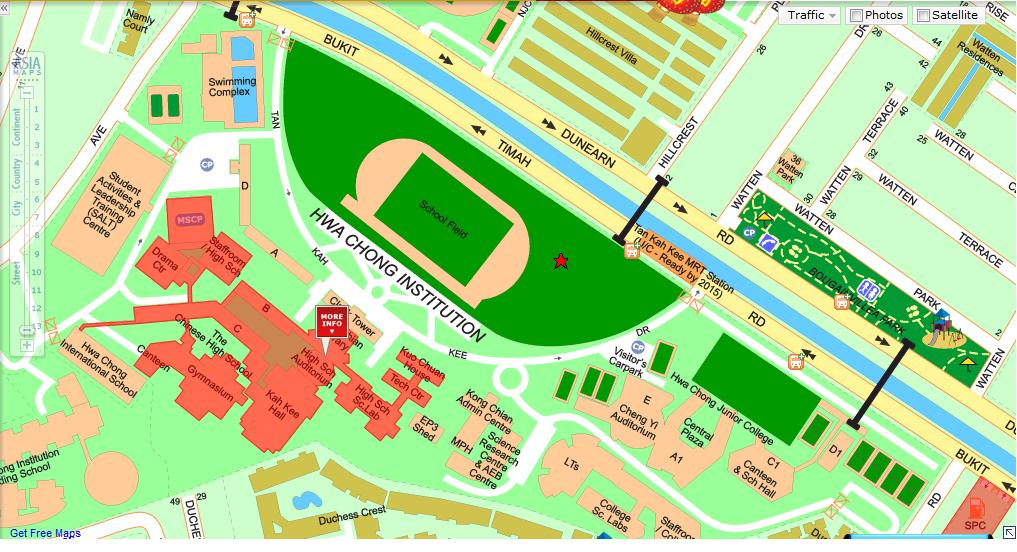
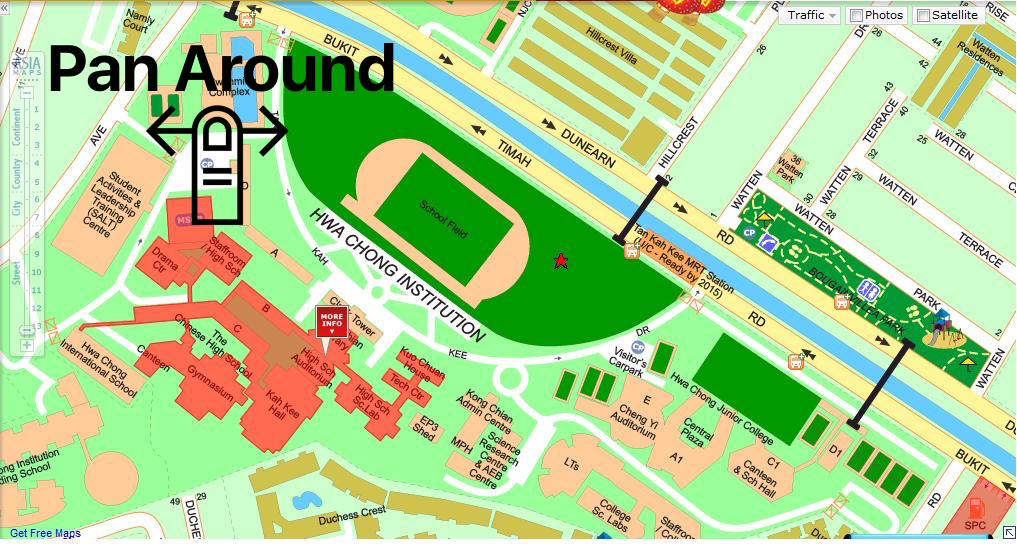
misc build files....

Changed region(s): [[0.0305, 0.0616, 0.3963, 0.4312]]

diff --git a/platforms/android/assets/www/js/index.js b/platforms/android/assets/www/js/index.js
@@ -13,19 +13,14 @@ $(function () {
 
     //create CCA buttons
     for (name in ccas) {
-    	var additionaltags = "";
-    	if(ccas[name].img.indexOf("cns")>-1)
-    	{
-    		additionaltags = " Clubs and Societies";
-    	}
-    	else if(ccas[name].img.indexOf("sports")>-1)
-    	{
-    		additionaltags = " Sports";
-    	}
-    	else if(ccas[name].img.indexOf("arts")>-1)
-    	{
-    		additionaltags = " Performing Arts";
-    	}
+        var additionaltags = "";
+        if (ccas[name].img.indexOf("cns") > -1) {
+            additionaltags = " Clubs and Societies";
+        } else if (ccas[name].img.indexOf("sports") > -1) {
+            additionaltags = " Sports";
+        } else if (ccas[name].img.indexOf("arts") > -1) {
+            additionaltags = " Performing Arts";
+        }
         $('#ccas ul').append(
             $('<li>').attr('data-filtertext', ccas[name].searchtags + additionaltags)
             .attr('data-ccaname', name)
@@ -63,22 +58,20 @@ $(function () {
         /*$('#subjectpage .subbtns').on('click', function(e){
         	window.open(academics[subjectname].website, '_blank', 'location=yes');
         });*/
-        $('#subjectpage .subbtns').attr('href',academics[subjectname].website);
-        
+        $('#subjectpage .subbtns').attr('href', academics[subjectname].website);
+
         $('#subjectpage p').html(academics[subjectname].content.replace(/(?:\r\n|\r|\n)/g, '<br />'));
     });
-	
-	$('#schoolmap').panzoom();
-	console.log(activities);
-	for(i in activities)
-	{
-		$('#activities ul').append($('<li>').append($('<a>')
-													.attr('href','#activitiespage')
-													.append($('<h3>').text(activities[i].title))
-													.append($('<p>').html(activities[i].content))
-													.append($('<p>').attr('class','ui-li-aside').append($('<strong>').text(activities[i].time)))
-													));
-	}
+
+    console.log(activities);
+    for (i in activities) {
+        $('#activities ul').append($('<li>').append($('<a>')
+            .attr('href', '#activitiespage')
+            .append($('<h3>').text(activities[i].title))
+            .append($('<p>').html(activities[i].content))
+            .append($('<p>').attr('class', 'ui-li-aside').append($('<strong>').text(activities[i].time)))
+        ));
+    }
     /*//create the cca pages
     for (name in ccas) {
         $('body').append($('<div>')
@@ -119,25 +112,25 @@ $(function () {
 
 var app = {
     // Application Constructor
-    initialize: function() {
+    initialize: function () {
         this.bindEvents();
     },
     // Bind Event Listeners
     //
     // Bind any events that are required on startup. Common events are:
     // 'load', 'deviceready', 'offline', and 'online'.
-    bindEvents: function() {
+    bindEvents: function () {
         document.addEventListener('deviceready', this.onDeviceReady, false);
     },
     // deviceready Event Handler
     //
     // The scope of 'this' is the event. In order to call the 'receivedEvent'
     // function, we must explicitly call 'app.receivedEvent(...);'
-    onDeviceReady: function() {
+    onDeviceReady: function () {
         app.receivedEvent('deviceready');
     },
     // Update DOM on a Received Event
-    receivedEvent: function(id) {
+    receivedEvent: function (id) {
         var parentElement = document.getElementById(id);
         var listeningElement = parentElement.querySelector('.listening');
         var receivedElement = parentElement.querySelector('.received');
@@ -148,4 +141,3 @@ var app = {
         console.log('Received Event: ' + id);
     }
 };
-

diff --git a/platforms/ios/www/js/index.js b/platforms/ios/www/js/index.js
@@ -13,19 +13,14 @@ $(function () {
 
     //create CCA buttons
     for (name in ccas) {
-    	var additionaltags = "";
-    	if(ccas[name].img.indexOf("cns")>-1)
-    	{
-    		additionaltags = " Clubs and Societies";
-    	}
-    	else if(ccas[name].img.indexOf("sports")>-1)
-    	{
-    		additionaltags = " Sports";
-    	}
-    	else if(ccas[name].img.indexOf("arts")>-1)
-    	{
-    		additionaltags = " Performing Arts";
-    	}
+        var additionaltags = "";
+        if (ccas[name].img.indexOf("cns") > -1) {
+            additionaltags = " Clubs and Societies";
+        } else if (ccas[name].img.indexOf("sports") > -1) {
+            additionaltags = " Sports";
+        } else if (ccas[name].img.indexOf("arts") > -1) {
+            additionaltags = " Performing Arts";
+        }
         $('#ccas ul').append(
             $('<li>').attr('data-filtertext', ccas[name].searchtags + additionaltags)
             .attr('data-ccaname', name)
@@ -63,22 +58,20 @@ $(function () {
         /*$('#subjectpage .subbtns').on('click', function(e){
         	window.open(academics[subjectname].website, '_blank', 'location=yes');
         });*/
-        $('#subjectpage .subbtns').attr('href',academics[subjectname].website);
-        
+        $('#subjectpage .subbtns').attr('href', academics[subjectname].website);
+
         $('#subjectpage p').html(academics[subjectname].content.replace(/(?:\r\n|\r|\n)/g, '<br />'));
     });
-	
-	$('#schoolmap').panzoom();
-	console.log(activities);
-	for(i in activities)
-	{
-		$('#activities ul').append($('<li>').append($('<a>')
-													.attr('href','#activitiespage')
-													.append($('<h3>').text(activities[i].title))
-													.append($('<p>').html(activities[i].content))
-													.append($('<p>').attr('class','ui-li-aside').append($('<strong>').text(activities[i].time)))
-													));
-	}
+
+    console.log(activities);
+    for (i in activities) {
+        $('#activities ul').append($('<li>').append($('<a>')
+            .attr('href', '#activitiespage')
+            .append($('<h3>').text(activities[i].title))
+            .append($('<p>').html(activities[i].content))
+            .append($('<p>').attr('class', 'ui-li-aside').append($('<strong>').text(activities[i].time)))
+        ));
+    }
     /*//create the cca pages
     for (name in ccas) {
         $('body').append($('<div>')
@@ -119,25 +112,25 @@ $(function () {
 
 var app = {
     // Application Constructor
-    initialize: function() {
+    initialize: function () {
         this.bindEvents();
     },
     // Bind Event Listeners
     //
     // Bind any events that are required on startup. Common events are:
     // 'load', 'deviceready', 'offline', and 'online'.
-    bindEvents: function() {
+    bindEvents: function () {
         document.addEventListener('deviceready', this.onDeviceReady, false);
     },
     // deviceready Event Handler
     //
     // The scope of 'this' is the event. In order to call the 'receivedEvent'
     // function, we must explicitly call 'app.receivedEvent(...);'
-    onDeviceReady: function() {
+    onDeviceReady: function () {
         app.receivedEvent('deviceready');
     },
     // Update DOM on a Received Event
-    receivedEvent: function(id) {
+    receivedEvent: function (id) {
         var parentElement = document.getElementById(id);
         var listeningElement = parentElement.querySelector('.listening');
         var receivedElement = parentElement.querySelector('.received');
@@ -148,4 +141,3 @@ var app = {
         console.log('Received Event: ' + id);
     }
 };
-

diff --git a/platforms/android/assets/www/index.html b/platforms/android/assets/www/index.html
@@ -182,7 +182,7 @@
                 <br> Alight at Hwa Chong JC (Bus stop no. 41051) or Opp Chinese High Sch (Bus stop no. 41069)
             </p>
             <h1>Getting around HCI</h1>
-            <div style="overflow-y: scroll; overflow-x: scroll;"><img src="img/schoolmap.jpg" id="schoolmap" /></div>
+            <div style="overflow-y: scroll; overflow-x: scroll;"><img src="img/scrollableschoolmap.jpg" id="schoolmap" /></div>
         </center>
         <!--/div-->
     </div>

diff --git a/platforms/ios/www/index.html b/platforms/ios/www/index.html
@@ -182,7 +182,7 @@
                 <br> Alight at Hwa Chong JC (Bus stop no. 41051) or Opp Chinese High Sch (Bus stop no. 41069)
             </p>
             <h1>Getting around HCI</h1>
-            <div style="overflow-y: scroll; overflow-x: scroll;"><img src="img/schoolmap.jpg" id="schoolmap" /></div>
+            <div style="overflow-y: scroll; overflow-x: scroll;"><img src="img/scrollableschoolmap.jpg" id="schoolmap" /></div>
         </center>
         <!--/div-->
     </div>
